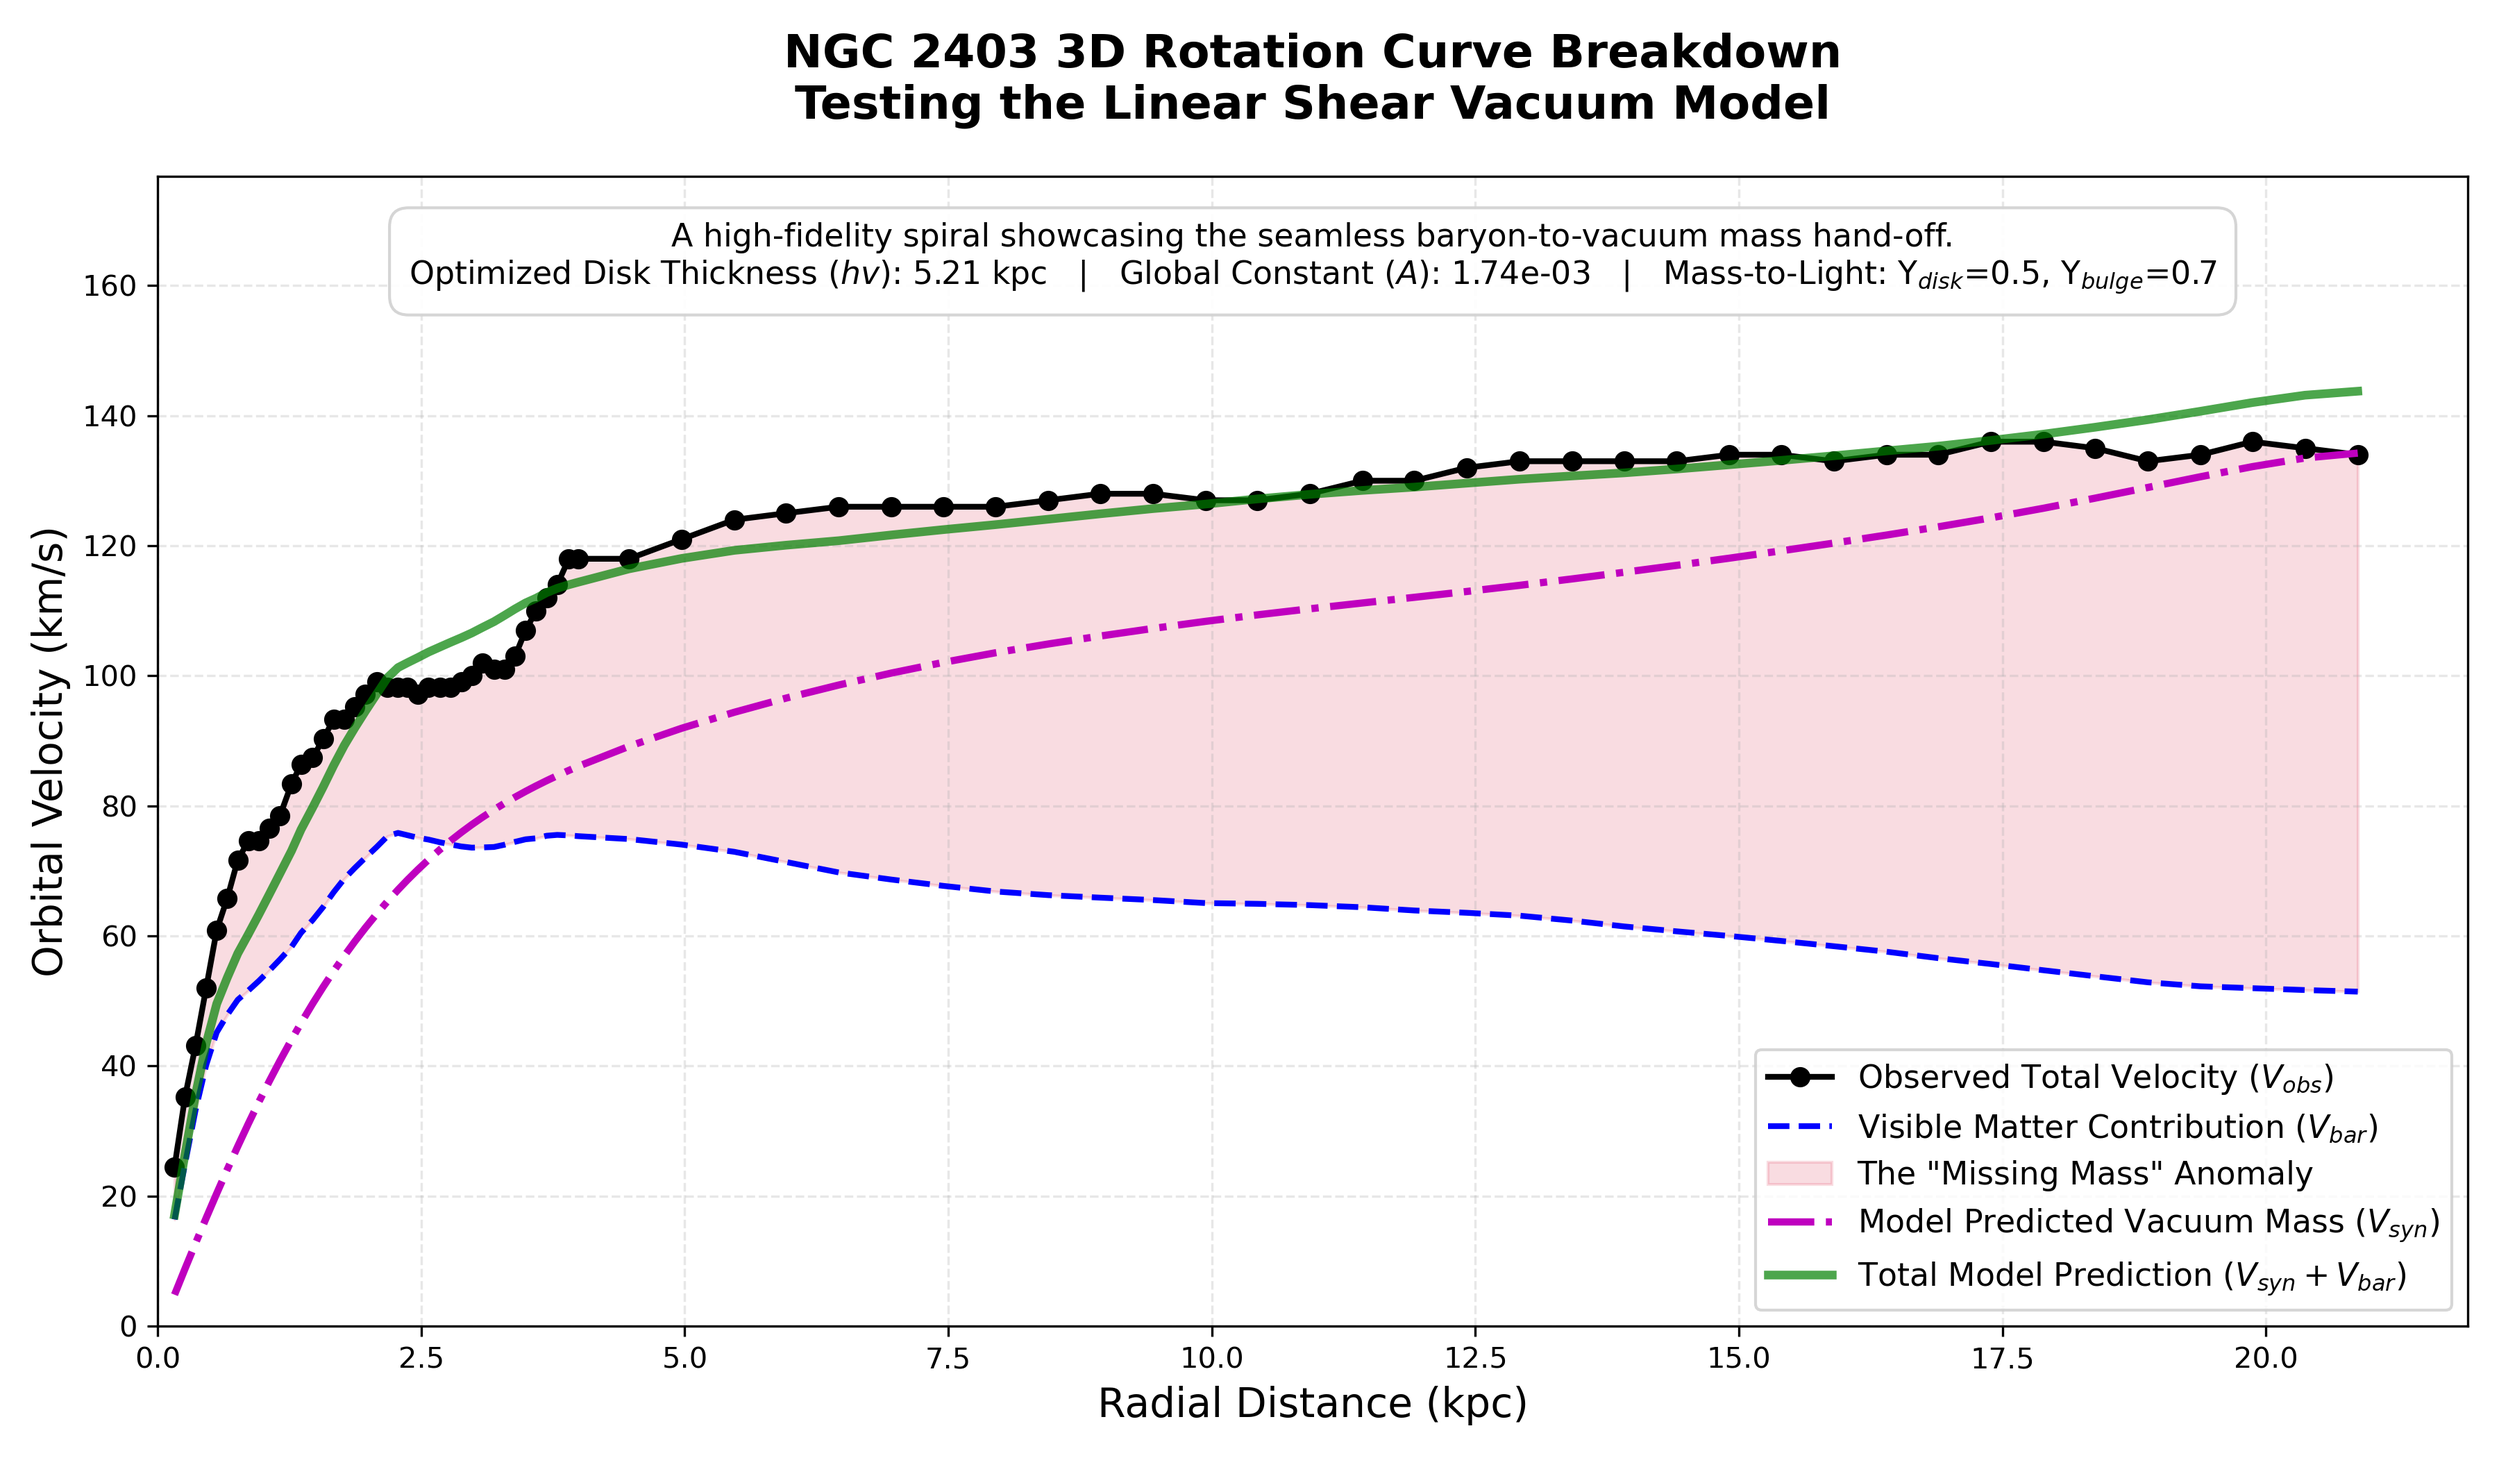
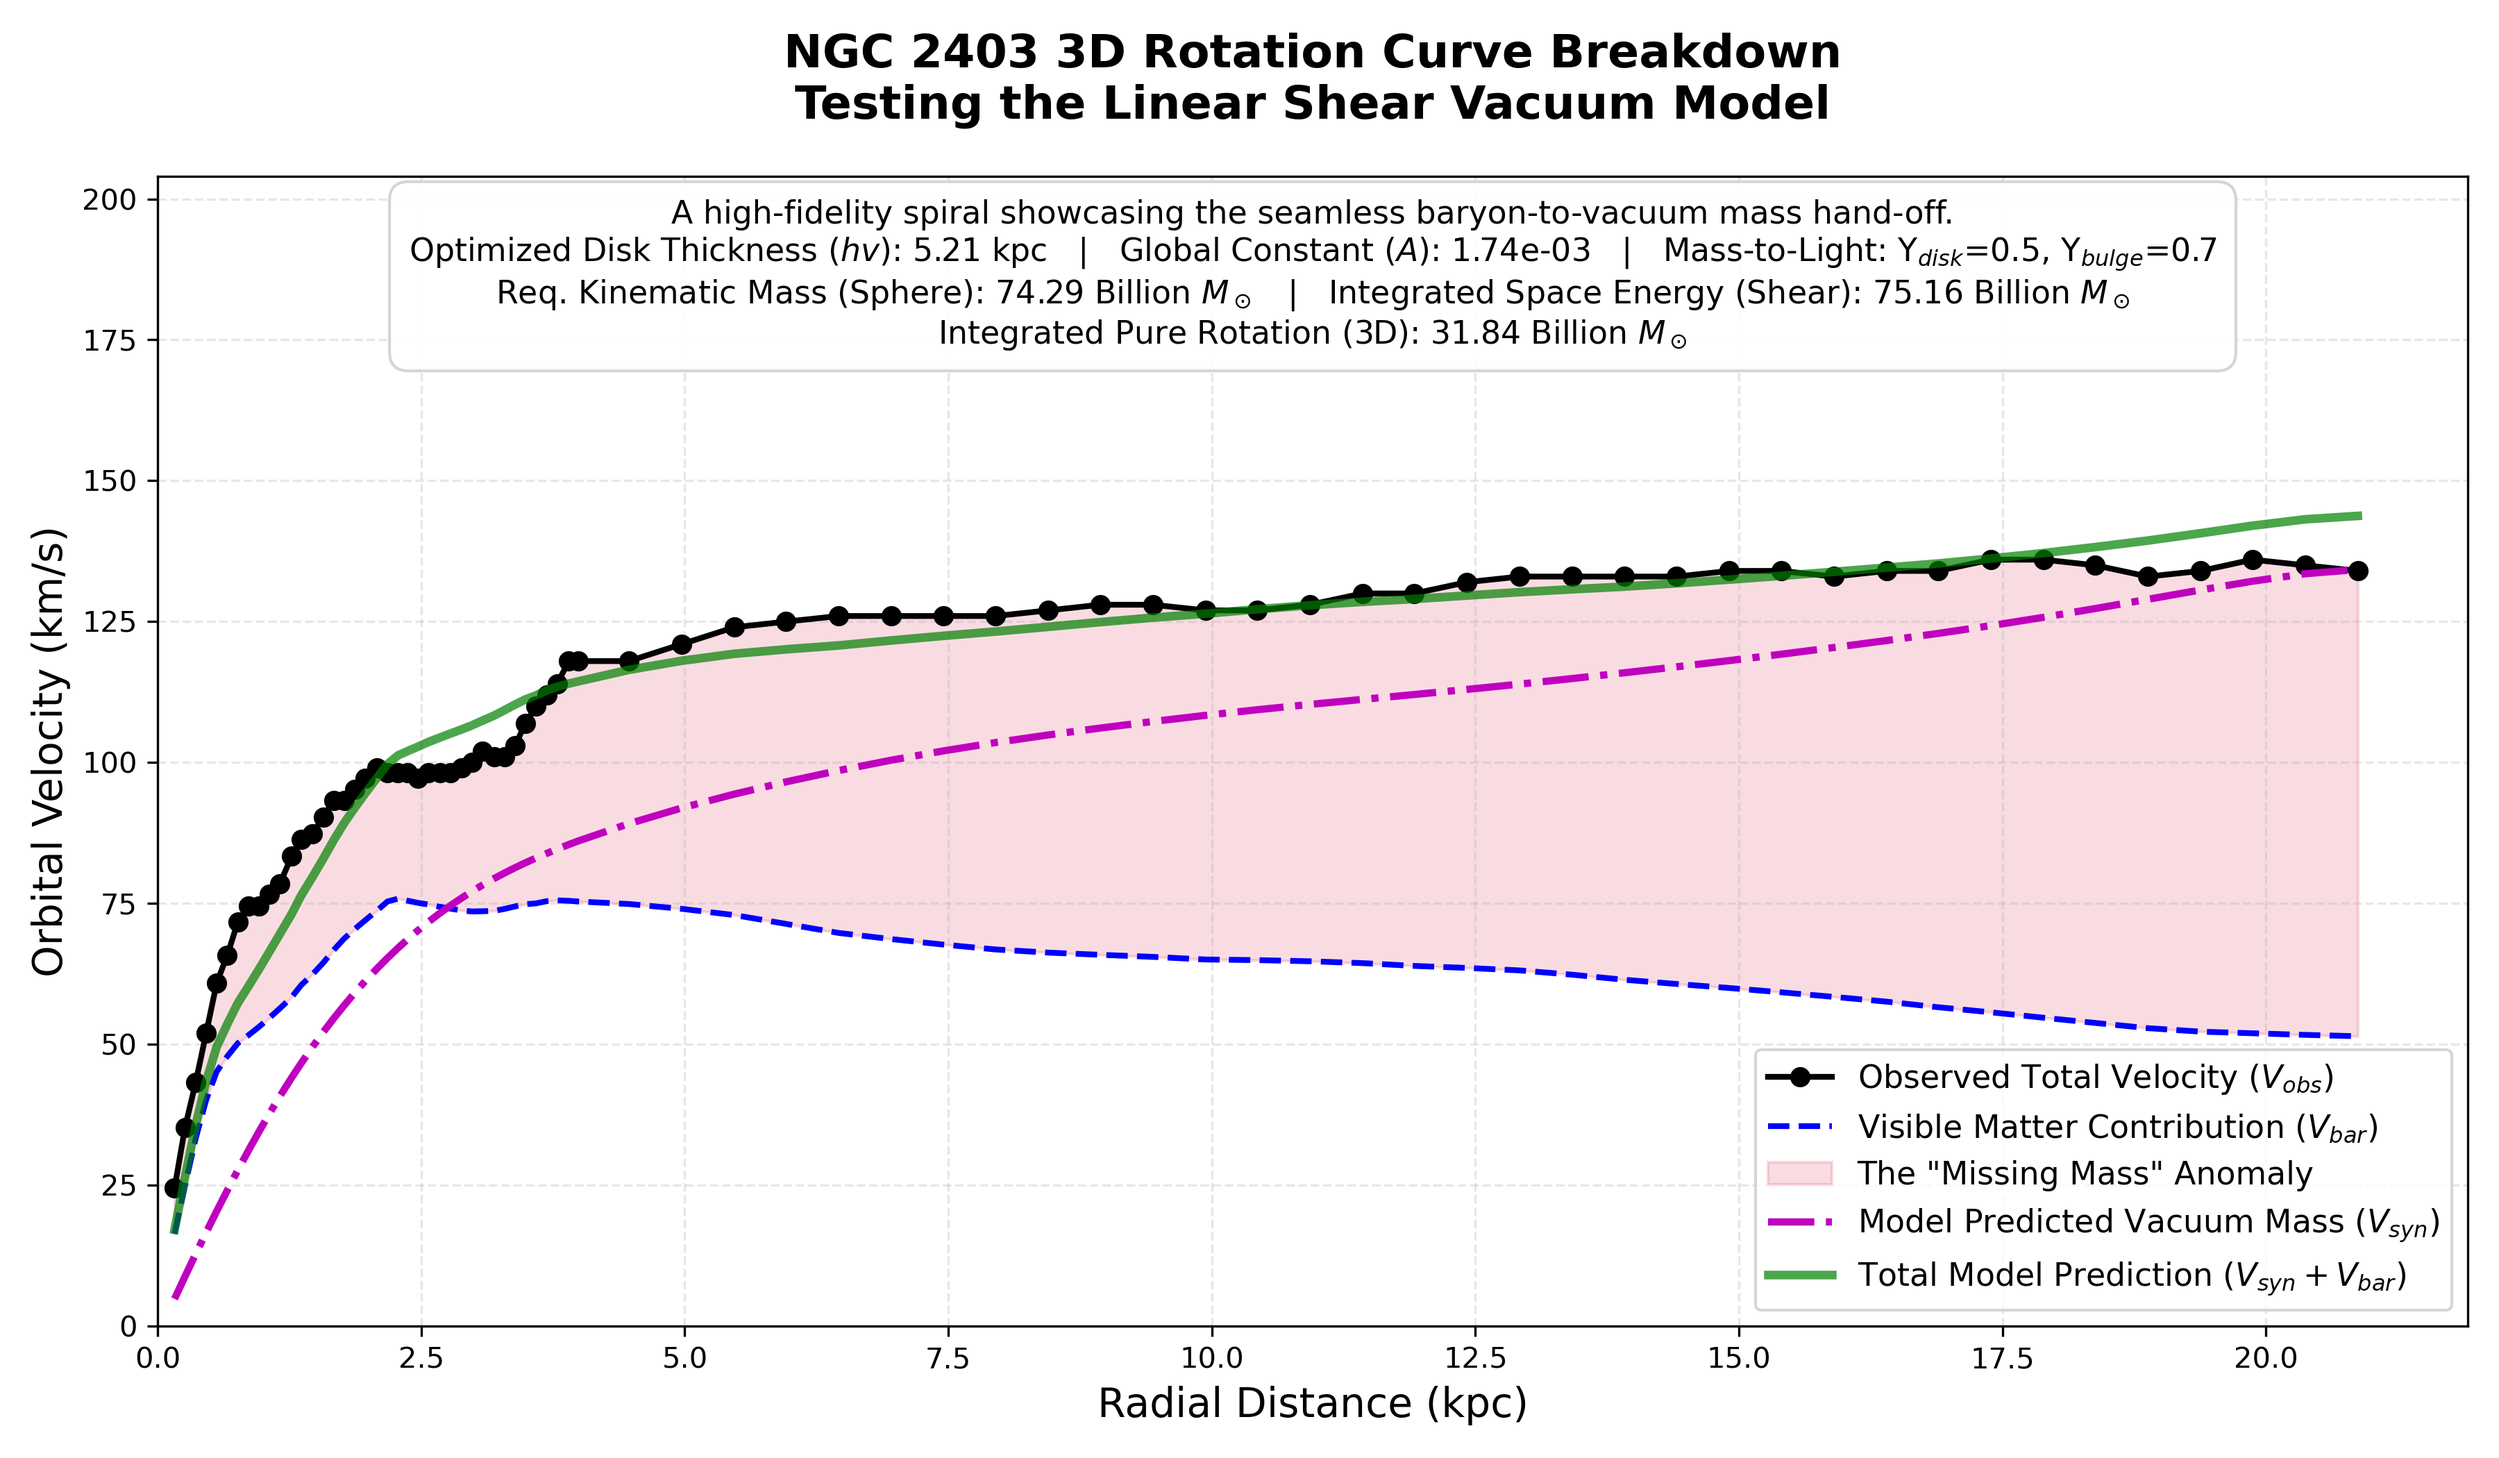
Added 3 energy types to the plots

diff --git a/generate_rotation_curves_2.py b/generate_rotation_curves_2.py
@@ -1,0 +1,247 @@
+"""
+=============================================================================
+Linear Shear Vacuum Model - 3D Batch Rotation Curve Generator (V2)
+=============================================================================
+Features included:
+- Dynamic Mass-to-Light ratio overrides per galaxy via config.yml
+- Manual Scale-Height (hv_fixed) overrides for extreme LSBs
+- Bulletproof regex string matching to handle formatting errors in SPARC
+- NEW: Advanced 3D mass/energy integration (Kinematic, Shear, Pure Rotation)
+=============================================================================
+"""
+
+import os
+import yaml
+import pandas as pd
+import numpy as np
+import matplotlib.pyplot as plt
+from scipy.optimize import minimize_scalar
+import warnings
+import re
+
+warnings.filterwarnings('ignore')
+
+# =============================================================================
+# UNIVERSAL PHYSICS CONSTANTS (DEFAULTS)
+# =============================================================================
+GLOBAL_A = 1.74e-03  
+GLOBAL_B = 1.0000    
+G = 4.3009e-6        
+UPSILON_DISK = 0.5   
+UPSILON_BULGE = 0.7  
+
+def load_config(config_path: str):
+    try:
+        with open(config_path, 'r') as file:
+            return yaml.safe_load(file)
+    except FileNotFoundError:
+        print(f"Error: Could not find configuration file at '{config_path}'.")
+        return None
+
+def evaluate_galaxy(hv: float, R_grid: np.ndarray, z_grid: np.ndarray, 
+                    R_2d: np.ndarray, z_2d: np.ndarray, V_midplane: np.ndarray, 
+                    masks: dict, kernels: list, Rad_obs: np.ndarray, V_true: np.ndarray) -> tuple:
+    
+    V_2d = V_midplane * np.exp(-z_2d / hv)
+    Omega_2d = V_2d / R_2d
+    
+    Shear_2d = np.sqrt(np.gradient(Omega_2d, R_grid, axis=0)**2 + np.gradient(Omega_2d, z_grid, axis=1)**2)
+    Rho_2d = GLOBAL_A * (Shear_2d ** GLOBAL_B)
+    
+    Rho_2d[masks['outer']] *= masks['outer_taper']
+    Rho_2d[np.sqrt(R_2d**2 + z_2d**2) > masks['edge']] = 0.0
+    Rho_kpc = Rho_2d[:, :, None] * 1e9
+    
+    V_syn = np.array([np.sqrt(np.maximum(0, R * np.sum(Rho_kpc * kernels[i]))) for i, R in enumerate(Rad_obs)])
+    mse = np.mean((V_syn - V_true)**2) + (1.0 * (hv - 3.0)**2)
+    return mse, V_syn
+
+def process_galaxy_3d(df_target: pd.DataFrame, target_config: dict, output_folder: str):
+    galaxy_name = target_config['name']
+    
+    # Extract dynamic parameters
+    u_disk = target_config.get('upsilon_disk', UPSILON_DISK)
+    u_bulge = target_config.get('upsilon_bulge', UPSILON_BULGE)
+    description = target_config.get('description', 'Standard SPARC Galaxy')
+    
+    df_target = df_target[df_target['Rad'] > 0.01].copy()
+    df_target = df_target.sort_values(by='Rad').reset_index(drop=True)
+    
+    if len(df_target) < 3:
+        print(f"  -> Skipping {galaxy_name}: Not enough data points.")
+        return
+
+    R_obs = df_target['Rad'].values
+    V_obs = df_target['Vobs'].values
+    
+    V_disk_sq = u_disk * (pd.to_numeric(df_target['Vdisk']).values ** 2)
+    V_bulge_sq = u_bulge * (pd.to_numeric(df_target['Vbulge']).values ** 2)
+    V_gas_sq = pd.to_numeric(df_target['Vgas']).values * np.abs(pd.to_numeric(df_target['Vgas']).values)
+    
+    V_bar_sq = V_disk_sq + V_bulge_sq + V_gas_sq
+    V_bar_sq[V_bar_sq < 0] = 0
+    V_bar = np.sqrt(V_bar_sq)
+    
+    V_true_sq = (V_obs ** 2) - V_bar_sq
+    V_true_sq[V_true_sq < 0] = 0
+    V_true = np.sqrt(V_true_sq)
+    
+    # Pre-computation
+    R_max = R_obs.max()
+    R_grid = np.linspace(max(0.1, R_obs.min()), R_max, 50)
+    z_grid = np.linspace(0.0, R_max * 1.5, 40)
+    phi_grid = np.linspace(0, 2 * np.pi, 50)
+    
+    R_3d, z_3d, phi_3d = np.meshgrid(R_grid, z_grid, phi_grid, indexing='ij')
+    R_2d, z_2d = np.meshgrid(R_grid, z_grid, indexing='ij')
+    
+    V_midplane = np.interp(R_grid, R_obs, V_obs)[:, None]
+    
+    r_sph2d = np.sqrt(R_2d**2 + z_2d**2)
+    masks = {
+        'outer': r_sph2d > R_max * 0.95,
+        'outer_taper': np.exp(-(r_sph2d[r_sph2d > R_max * 0.95] - R_max * 0.95) / 10.0),
+        'edge': R_max * 1.3
+    }
+    
+    dV = R_3d * (R_grid[1]-R_grid[0]) * (z_grid[1]-z_grid[0]) * (phi_grid[1]-phi_grid[0])
+    dr_max = max(R_grid[1]-R_grid[0], z_grid[1]-z_grid[0]) * 2.0
+    
+    kernels = []
+    for R in R_obs:
+        if R > 0:
+            denom = (R_3d**2 + R**2 - 2*R_3d*R*np.cos(phi_3d) + z_3d**2 + dr_max**2)**1.5
+            k = 2 * G * dV * (R - R_3d * np.cos(phi_3d)) / denom
+            kernels.append(k)
+        else:
+            kernels.append(np.zeros_like(R_3d))
+            
+    # =========================================================
+    # NATIVE OVERRIDE & OPTIMIZATION
+    # =========================================================
+    if 'hv_fixed' in target_config:
+        best_hv = float(target_config['hv_fixed'])
+        print(f"  -> Manual Override: using hv = {best_hv} for {galaxy_name}")
+    else:
+        res = minimize_scalar(
+            lambda hv: evaluate_galaxy(hv, R_grid, z_grid, R_2d, z_2d, V_midplane, masks, kernels, R_obs, V_true)[0],
+            bounds=(1.0, 35.0), method='bounded'
+        )
+        best_hv = res.x
+    
+    _, V_syn = evaluate_galaxy(best_hv, R_grid, z_grid, R_2d, z_2d, V_midplane, masks, kernels, R_obs, V_true)
+    V_tot_predicted = np.sqrt(V_bar_sq + V_syn**2)
+
+    # =========================================================
+    # CALCULATE MASS / ENERGY EQUIVALENTS (at R_max)
+    # =========================================================
+    # 1. Kinematic Required Energy (Classical Spherical Approximation: V^2*R/G)
+    M_missing_kinematic = ((V_true[-1]**2) * R_max / G) / 1e9
+
+    # 2. Volume-Integrated Vacuum Energy (Adding up the rotating layers via Shear)
+    V_2d = V_midplane * np.exp(-z_2d / best_hv)
+    Omega_2d = V_2d / R_2d
+    Shear_2d = np.sqrt(np.gradient(Omega_2d, R_grid, axis=0)**2 + np.gradient(Omega_2d, z_grid, axis=1)**2)
+    Rho_2d = GLOBAL_A * (Shear_2d ** GLOBAL_B)
+    Rho_2d[masks['outer']] *= masks['outer_taper']
+    Rho_2d[np.sqrt(R_2d**2 + z_2d**2) > masks['edge']] = 0.0
+    
+    dR = R_grid[1] - R_grid[0]
+    dz = z_grid[1] - z_grid[0]
+    dV_layer = 2 * np.pi * R_2d * dR * dz * 2.0 
+    
+    Rho_kpc = Rho_2d * 1e9
+    M_missing_integrated = np.sum(Rho_kpc * dV_layer) / 1e9 
+
+    # 3. Pure Rotation Energy (Gravitomagnetic equivalent mass in 3D)
+    Omega_2d_sq = (V_2d / R_2d)**2
+    Rho_rot_2d = Omega_2d_sq / (4 * np.pi * G) 
+    Rho_rot_2d[np.sqrt(R_2d**2 + z_2d**2) > masks['edge']] = 0.0
+    M_pure_rotation = np.sum(Rho_rot_2d * dV_layer) / 1e9 
+
+    # =========================================================
+    # PLOTTING
+    # =========================================================
+    plt.figure(figsize=(12, 7))
+    plt.plot(R_obs, V_obs, 'ko-', linewidth=2, label='Observed Total Velocity ($V_{obs}$)', markersize=6)
+    plt.plot(R_obs, V_bar, 'b--', linewidth=2, label='Visible Matter Contribution ($V_{bar}$)')
+    plt.fill_between(R_obs, V_bar, V_obs, color='crimson', alpha=0.15, label='The "Missing Mass" Anomaly')
+    
+    plt.plot(R_obs, V_syn, 'm-.', linewidth=2.5, label=f'Model Predicted Vacuum Mass ($V_{{syn}}$)')
+    plt.plot(R_obs, V_tot_predicted, 'g-', linewidth=3, alpha=0.7, label='Total Model Prediction ($V_{syn} + V_{bar}$)')
+
+    # Verhoogde Y-as limiet om ruimte te maken voor de uitgebreide tekstbox
+    max_y = max(V_obs) * 1.50 
+    
+    plt.title(f'{galaxy_name} 3D Rotation Curve Breakdown\nTesting the Linear Shear Vacuum Model', fontsize=16, fontweight='bold', pad=20)
+    plt.xlabel('Radial Distance (kpc)', fontsize=14)
+    plt.ylabel('Orbital Velocity (km/s)', fontsize=14)
+    
+    context_text = (
+        f"{description}\n"
+        f"Optimized Disk Thickness ($hv$): {best_hv:.2f} kpc   |   "
+        f"Global Constant ($A$): {GLOBAL_A:.2e}   |   "
+        f"Mass-to-Light: $\\Upsilon_{{disk}}$={u_disk}, $\\Upsilon_{{bulge}}$={u_bulge}\n"
+        f"Req. Kinematic Mass (Sphere): {M_missing_kinematic:.2f} Billion $M_\\odot$   |   "
+        f"Integrated Space Energy (Shear): {M_missing_integrated:.2f} Billion $M_\\odot$\n"
+        f"Integrated Pure Rotation (3D): {M_pure_rotation:.2f} Billion $M_\\odot$"
+    )
+    
+    plt.text(0.5, 0.98, context_text, transform=plt.gca().transAxes, fontsize=11,
+             ha='center', va='top', bbox=dict(facecolor='white', alpha=0.95, edgecolor='lightgrey', boxstyle='round,pad=0.6'))
+
+    plt.legend(loc='lower right', fontsize=11)
+    plt.grid(True, alpha=0.3, linestyle='--')
+    
+    plt.xlim(0, max(R_obs) * 1.05)
+    plt.ylim(0, max_y)
+    plt.tight_layout()
+    
+    safe_name = re.sub(r'\W+', '_', galaxy_name)
+    output_path = os.path.join(output_folder, f'{safe_name}_rotation_curves.png')
+    plt.savefig(output_path, dpi=300)
+    plt.close()
+    
+    print(f"  -> Saved 3D plot for {galaxy_name} (hv = {best_hv:.2f} kpc): {output_path}")
+
+if __name__ == "__main__":
+    config = load_config('galaxies_to_generate.yml')
+    if not config: exit()
+        
+    data_file = config.get('data_file', 'cdsarc_152_157_table2.xlsx')
+    output_folder = config.get('output_folder', 'Shear_Analysis_Plots')
+    target_galaxies = config.get('target_galaxies', [])
+    
+    if not os.path.exists(output_folder):
+        os.makedirs(output_folder)
+        
+    print(f"Loading SPARC Database from {data_file}...")
+    try:
+        df_sparc = pd.read_excel(data_file) if data_file.endswith('.xlsx') else pd.read_csv(data_file)
+    except FileNotFoundError:
+        print(f"Error: Data file '{data_file}' not found.")
+        exit()
+        
+    col_name = 'Name' if 'Name' in df_sparc.columns else 'Galaxy' if 'Galaxy' in df_sparc.columns else 'Galaxy identifier' if 'Galaxy identifier' in df_sparc.columns else None
+    
+    df_sparc['Clean_Galaxy'] = df_sparc[col_name].astype(str).str.replace(r'\W+', '', regex=True).str.upper()
+
+    df_sparc = df_sparc.rename(columns={
+        'rad': 'Rad', 'vobs': 'Vobs', 'errv': 'errV', 
+        'vgas': 'Vgas', 'vdisk': 'Vdisk', 'vbulge': 'Vbulge'
+    })
+
+    print(f"Processing {len(target_galaxies)} galaxies via 3D Integration...")
+    for target in target_galaxies:
+        target_config = {'name': target} if isinstance(target, str) else target
+        target_name = target_config['name']
+        
+        clean_target = re.sub(r'\W+', '', str(target_name)).upper()
+        df_target = df_sparc[df_sparc['Clean_Galaxy'] == clean_target].copy()
+        
+        if df_target.empty:
+            print(f"  -> Warning: Galaxy '{target_name}' not found. Skipping.")
+        else:
+            process_galaxy_3d(df_target, target_config, output_folder)
+            
+    print("\nBatch processing complete!")
